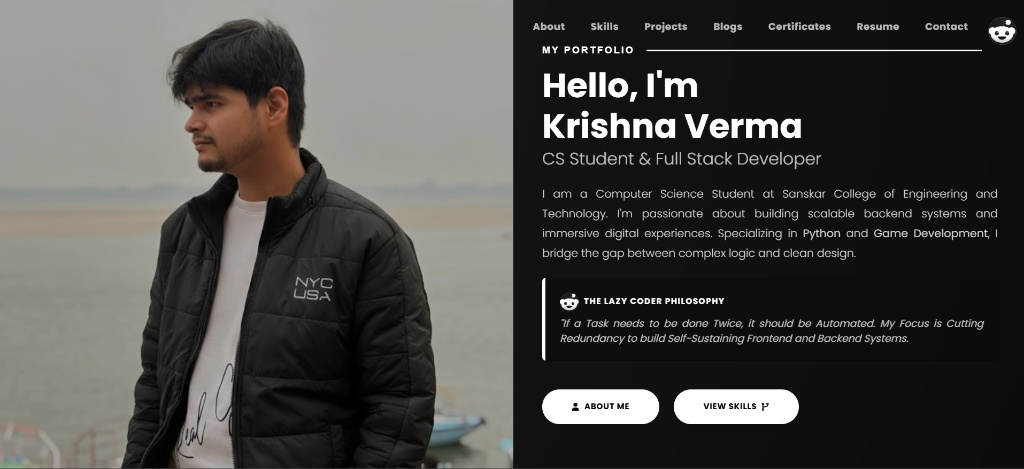
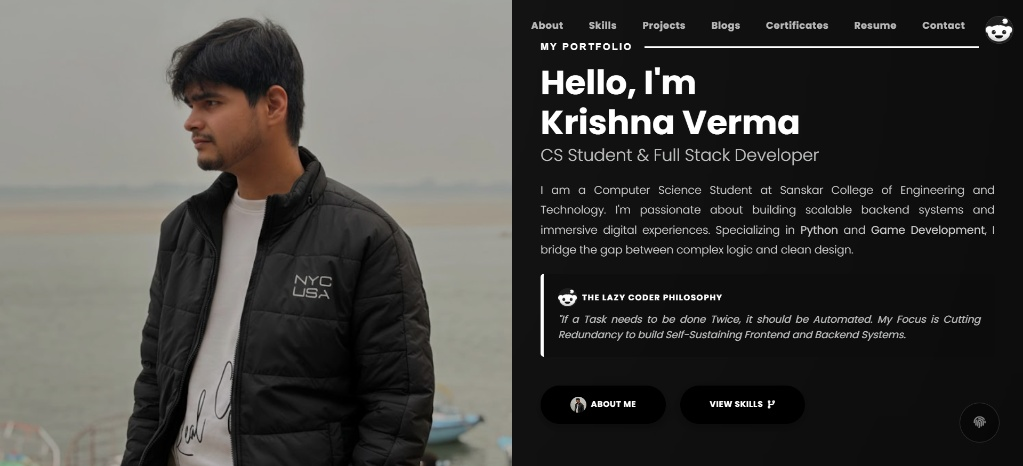
commit

diff --git a/app/templates/home.html b/app/templates/home.html
@@ -28,29 +28,30 @@
         border: 2px solid transparent;
     }
 
-    .btn-pill-white {
-        background: #ffffff;
-        color: #000000;
-        box-shadow: 0 4px 15px rgba(0, 0, 0, 0.1);
-    }
-
-    .btn-pill-white:hover {
+    .btn-pill-black {
         background: #000000;
         color: #ffffff;
-        transform: translateY(-3px);
-        box-shadow: 0 8px 25px rgba(0, 0, 0, 0.3);
-        border-color: #000000;
+        box-shadow: 0 4px 15px rgba(0, 0, 0, 0.3);
     }
 
-    .btn-pill-white i {
+    .btn-pill-black:hover {
+        background: #ffffff;
+        color: #000000;
+        transform: translateY(-3px);
+        box-shadow: 0 8px 25px rgba(255, 255, 255, 0.2);
+        border-color: #ffffff;
+    }
+
+    .btn-pill-black i,
+    .btn-pill-black img {
         transition: transform 0.3s ease;
     }
 
-    .btn-pill-white:hover .fa-code-branch {
+    .btn-pill-black:hover .fa-code-branch {
         transform: translateX(3px) rotate(15deg);
     }
 
-    .btn-pill-white:hover .fa-user {
+    .btn-pill-black:hover .fa-user {
         transform: scale(1.1);
     }
 
@@ -131,10 +132,11 @@
                     </p>
                 </div>
                 <div class="d-flex gap-4 flex-wrap">
-                    <a href="{{ url_for('about.about') }}" class="btn-action btn-pill-white">
-                        <i class="fas fa-user me-2"></i> About Me
+                    <a href="{{ url_for('about.about') }}" class="btn-action btn-pill-black">
+                        <img src="{{ profile.profile_image }}" alt="Profile" class="me-2 rounded-circle shadow-sm"
+                            style="width: 20px; height: 20px; object-fit: cover;"> About Me
                     </a>
-                    <a href="{{ url_for('skills.skills') }}" class="btn-action btn-pill-white">
+                    <a href="{{ url_for('skills.skills') }}" class="btn-action btn-pill-black">
                         View Skills <i class="fas fa-code-branch ms-2"></i>
                     </a>
                 </div>

diff --git a/app/templates/resume.html b/app/templates/resume.html
@@ -345,7 +345,7 @@
                     </div>
                 </div>
                 <div class="sleek-panel reveal-element" style="transition-delay: 0.3s;">
-                    <div class="res-section-title"><i class="fas fa-laptop-code"></i> Key Projects</div>
+                    <div class="res-section-title"><i class="fas fa-laptop-code"></i>Key Projects</div>
                     <div class="timeline-container">
                         {% for project in projects[:3] %}
                         <div class="timeline-item">
@@ -382,7 +382,7 @@
                     </div>
                 </div>
                 <div class="sleek-panel reveal-element" style="transition-delay: 0.4s;">
-                    <div class="res-section-title"><i class="fas fa-pen-nib"></i> Key Articles</div>
+                    <div class="res-section-title"><i class="fas fa-pen-nib"></i>Key Blog Posts</div>
                     <div class="timeline-container">
                         {% for blog in blog_posts[:3] %}
                         <div class="timeline-item">
@@ -409,7 +409,7 @@
                     </div>
                 </div>
                 <div class="sleek-panel reveal-element" style="transition-delay: 0.5s;">
-                    <div class="res-section-title"><i class="fas fa-certificate"></i> Certifications</div>
+                    <div class="res-section-title"><i class="fas fa-certificate"></i>Key Certificates</div>
                     <div class="timeline-container">
                         {% for cert in certifications[:3] %}
                         <div class="timeline-item">
